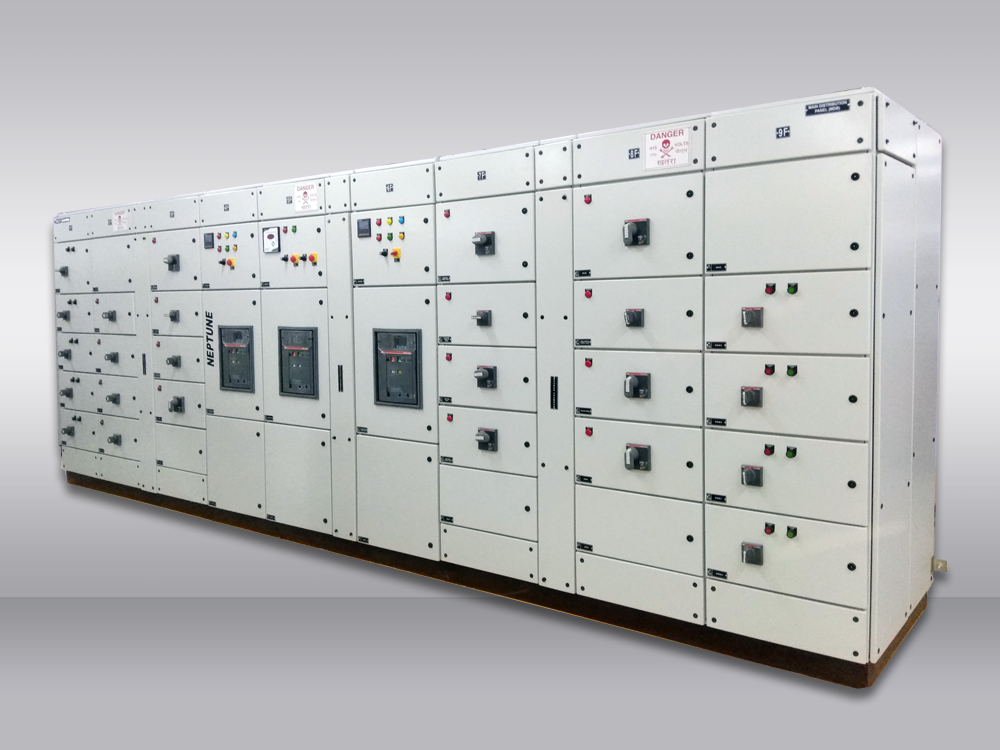
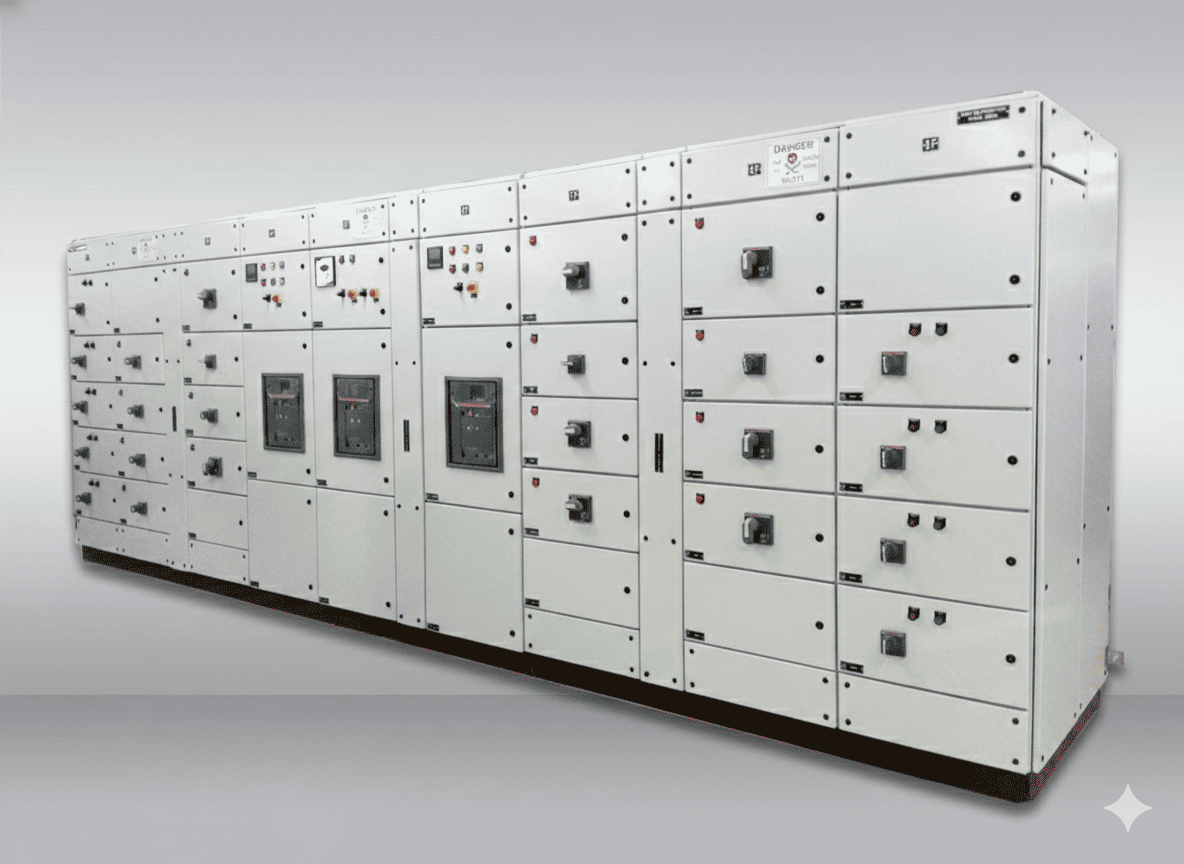
image changes

diff --git a/components/sections/HomeHero.tsx b/components/sections/HomeHero.tsx
@@ -2,6 +2,7 @@ import Image from 'next/image'
 import Link from 'next/link'
 import { ArrowRight } from 'lucide-react'
 import RotatingText from '@/components/ui/RotatingText'
+import ltpanelImage from '@/public/lt-panel.png'
 
 export default function HomeHero() {
   const rotatingPhrases = [
@@ -67,7 +68,7 @@ export default function HomeHero() {
               sizes="(max-width: 1024px) 100vw, 50vw"
             /> */}
             <Image
-              src="/hero-image.jpg"
+              src={ltpanelImage}
               alt="Industrial electrical control panel with professional technician"
               fill
               className="object-cover"
